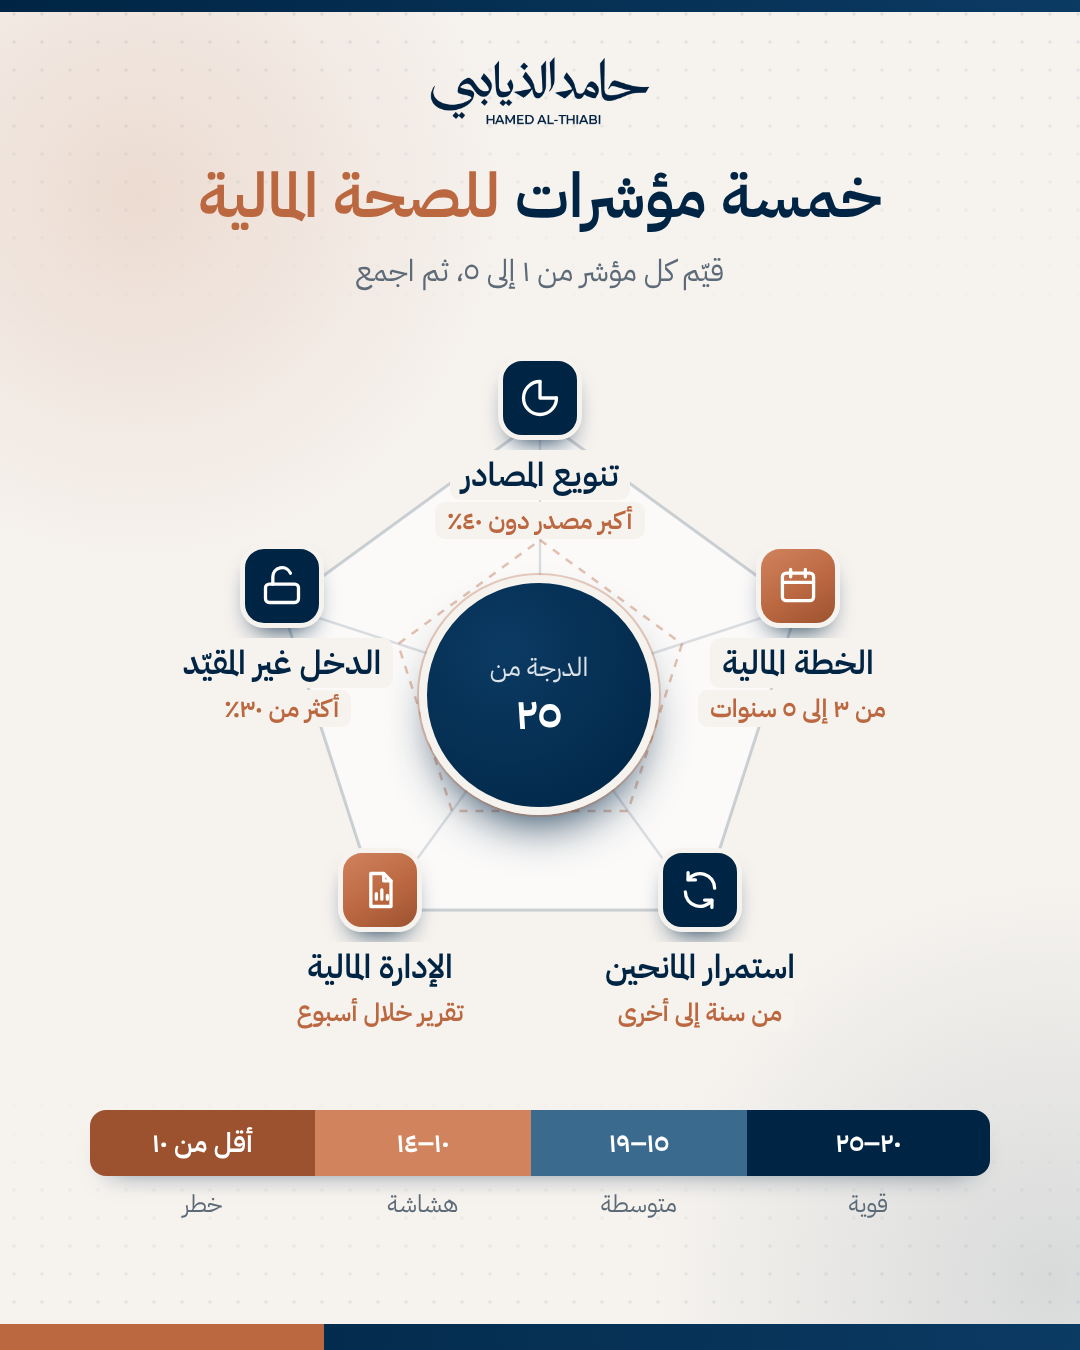
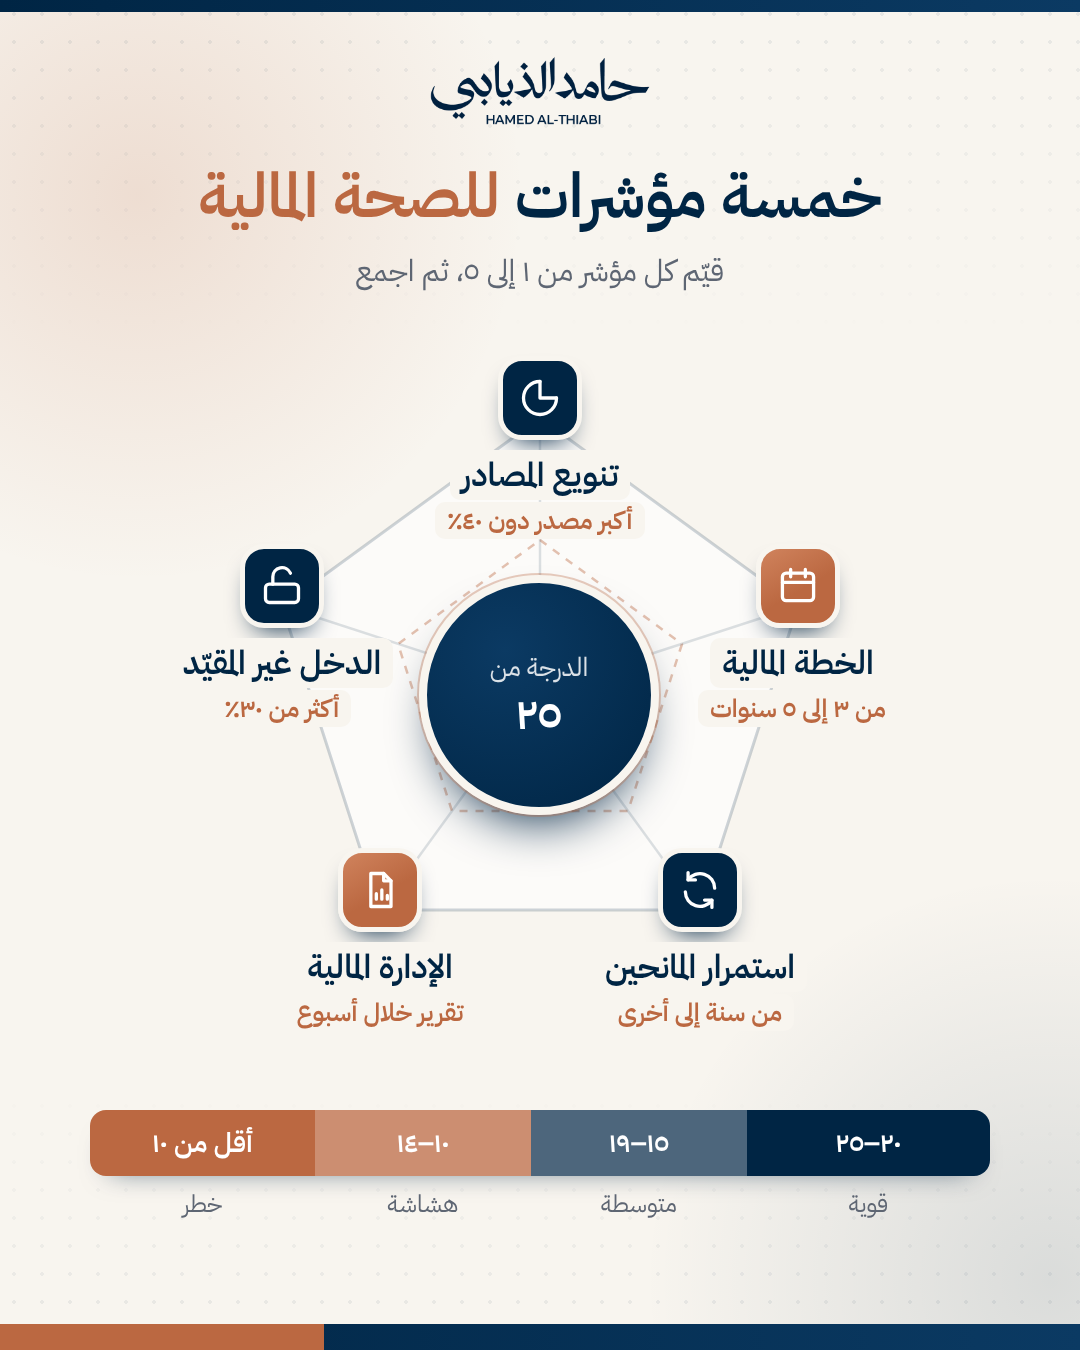
سلسلة الأربعاء ١٢: ألوان التصميم من هوية الموقع فقط
Claude-Session: https://claude.ai/code/session_01WaAQ5THMPmT87a4kZUky1t

Changed region(s): [[0.0611, 0.8089, 0.3056, 0.8711]]

diff --git a/agent/designs/2026-11-18-wed12-indicators.html b/agent/designs/2026-11-18-wed12-indicators.html
@@ -2,7 +2,7 @@
 @font-face{font-family:Ar;src:url(../brand/plex-600.ttf);font-weight:600}
 @font-face{font-family:Ar;src:url(../brand/plex-400.ttf);font-weight:400}
 @font-face{font-family:La;src:url(../brand/plex-latin-400.ttf)}
-:root{--n:#002544;--n2:#0b3a63;--c:#BB6841;--c2:#d0835d;--ink:#1c2a38;--mut:#5d6b78;--bg:#f6f3ef}
+:root{--n:#002544;--n2:#0b3a63;--c:#BB6841;--c2:#d0835d;--ink:#1B2433;--mut:#5E6673;--bg:#F8F5EF}
 *{margin:0;box-sizing:border-box}html,body{width:1080px;height:1350px;overflow:hidden}
 body{font-family:Ar,La;background:var(--bg);position:relative;color:var(--ink)}
 .b1{position:absolute;width:780px;height:780px;left:-252px;top:-195px;border-radius:50%;background:radial-gradient(circle,#BB68412b,#BB684100 70%)}
@@ -18,15 +18,15 @@ body{font-family:Ar,La;background:var(--bg);position:relative;color:var(--ink)}
 .t1{top:160px;font-size:62px}
 .sub{position:absolute;top:248px;width:100%;text-align:center;font-size:30px;color:var(--mut)}
 svg.web{position:absolute;left:0;top:0;width:1080px;height:1350px}
-.core{position:absolute;left:419px;top:575px;width:240px;height:240px;border-radius:50%;background:radial-gradient(circle at 35% 30%,#0b3a63,#002544);box-shadow:0 26px 50px -22px #002544;display:flex;flex-direction:column;align-items:center;justify-content:center;color:#fff;border:8px solid #f6f3ef;outline:2px solid #BB684155}
+.core{position:absolute;left:419px;top:575px;width:240px;height:240px;border-radius:50%;background:radial-gradient(circle at 35% 30%,#0b3a63,#002544);box-shadow:0 26px 50px -22px #002544;display:flex;flex-direction:column;align-items:center;justify-content:center;color:#fff;border:8px solid #F8F5EF;outline:2px solid #BB684155}
 .core small{font-size:26px;opacity:.85}.core strong{font-size:44px;line-height:1.25;font-weight:600}
 .nd{position:absolute;width:260px;display:flex;flex-direction:column;align-items:center;text-align:center}
-.nd .ic{width:84px;height:84px;border-radius:24px;background:var(--n);display:flex;align-items:center;justify-content:center;box-shadow:0 14px 26px -14px #002544;border:5px solid #f6f3ef}
-.nd.c .ic{background:linear-gradient(150deg,#d0835d,#BB6841 55%,#9c522f)}
+.nd .ic{width:84px;height:84px;border-radius:24px;background:var(--n);display:flex;align-items:center;justify-content:center;box-shadow:0 14px 26px -14px #002544;border:5px solid #F8F5EF}
+.nd.c .ic{background:linear-gradient(150deg,#d0835d,#BB6841 55%,#BB6841)}
 .nd .ic svg{width:44px;height:44px}
 .nd b{margin-top:10px;font-size:33px;font-weight:600;color:var(--n);white-space:nowrap}
 .nd span{margin-top:2px;font-size:25px;color:var(--c);white-space:nowrap;font-weight:600}
-.nd b,.nd span{background:#f6f3ef;padding:0 12px;border-radius:10px}
+.nd b,.nd span{background:#F8F5EF;padding:0 12px;border-radius:10px}
 .scale{position:absolute;top:1110px;left:90px;right:90px}
 .scale .bar{display:flex;height:66px;border-radius:16px;overflow:hidden;box-shadow:0 14px 28px -20px #002544aa}
 .scale .bar div{display:flex;align-items:center;justify-content:center;color:#fff;font-size:27px;font-weight:600;white-space:nowrap}
@@ -48,5 +48,5 @@ svg.web{position:absolute;left:0;top:0;width:1080px;height:1350px}
 <g stroke="#00254422" stroke-width="2.5"><line x1="540" y1="690" x2="540" y2="418"/><line x1="540" y1="690" x2="798" y2="606"/><line x1="540" y1="690" x2="700" y2="910"/><line x1="540" y1="690" x2="380" y2="910"/><line x1="540" y1="690" x2="282" y2="606"/></g></g></svg>
 <div class="core"><small>الدرجة من</small><strong>٢٥</strong></div>
 <div class="nd" style="left:410px;top:356px"><div class="ic"><svg viewBox="0 0 24 24" fill="none" stroke="#fff" stroke-width="1.8" stroke-linecap="round" stroke-linejoin="round"><path d="M12 3v9h9"/><path d="M21 12a9 9 0 1 1-9-9"/></svg></div><b>تنويع المصادر</b><span>أكبر مصدر دون ٤٠٪</span></div><div class="nd c" style="left:668px;top:544px"><div class="ic"><svg viewBox="0 0 24 24" fill="none" stroke="#fff" stroke-width="1.8" stroke-linecap="round" stroke-linejoin="round"><rect x="3.5" y="5" width="17" height="15" rx="2"/><path d="M3.5 10h17M8 3v4M16 3v4"/></svg></div><b>الخطة المالية</b><span>من ٣ إلى ٥ سنوات</span></div><div class="nd" style="left:570px;top:848px"><div class="ic"><svg viewBox="0 0 24 24" fill="none" stroke="#fff" stroke-width="1.8" stroke-linecap="round" stroke-linejoin="round"><path d="M20 11a8 8 0 0 0-14.5-4.6M4 13a8 8 0 0 0 14.5 4.6"/><path d="M5.5 2.5v4h4M18.5 21.5v-4h-4"/></svg></div><b>استمرار المانحين</b><span>من سنة إلى أخرى</span></div><div class="nd c" style="left:250px;top:848px"><div class="ic"><svg viewBox="0 0 24 24" fill="none" stroke="#fff" stroke-width="1.8" stroke-linecap="round" stroke-linejoin="round"><path d="M7 3h7l4 4v14H7z"/><path d="M14 3v4h4M10 17v-3M13 17v-5M16 17v-2"/></svg></div><b>الإدارة المالية</b><span>تقرير خلال أسبوع</span></div><div class="nd" style="left:152px;top:544px"><div class="ic"><svg viewBox="0 0 24 24" fill="none" stroke="#fff" stroke-width="1.8" stroke-linecap="round" stroke-linejoin="round"><rect x="3" y="11" width="18" height="10" rx="2"/><path d="M7 11V7a5 5 0 0 1 9.6-2"/></svg></div><b>الدخل غير المقيّد</b><span>أكثر من ٣٠٪</span></div>
-<div class="scale"><div class="bar"><div style="width:27%;background:#002544">٢٠–٢٥</div><div style="width:24%;background:#3b6a8f">١٥–١٩</div><div style="width:24%;background:#d0835d">١٠–١٤</div><div style="width:25%;background:#9c522f">أقل من ١٠</div></div><div class="lbls"><div style="width:27%">قوية</div><div style="width:24%">متوسطة</div><div style="width:24%">هشاشة</div><div style="width:25%">خطر</div></div></div>
+<div class="scale"><div class="bar"><div style="width:27%;background:#002544">٢٠–٢٥</div><div style="width:24%;background:#4D667C">١٥–١٩</div><div style="width:24%;background:#CC8E71">١٠–١٤</div><div style="width:25%;background:#BB6841">أقل من ١٠</div></div><div class="lbls"><div style="width:27%">قوية</div><div style="width:24%">متوسطة</div><div style="width:24%">هشاشة</div><div style="width:25%">خطر</div></div></div>
 <div class="bot"><i></i></div></body></html>
